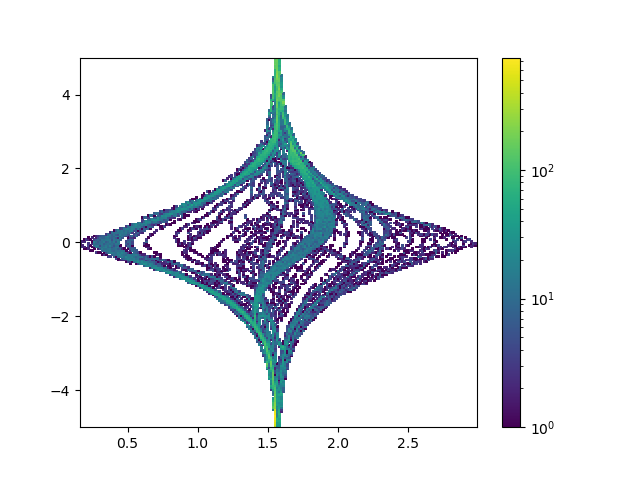
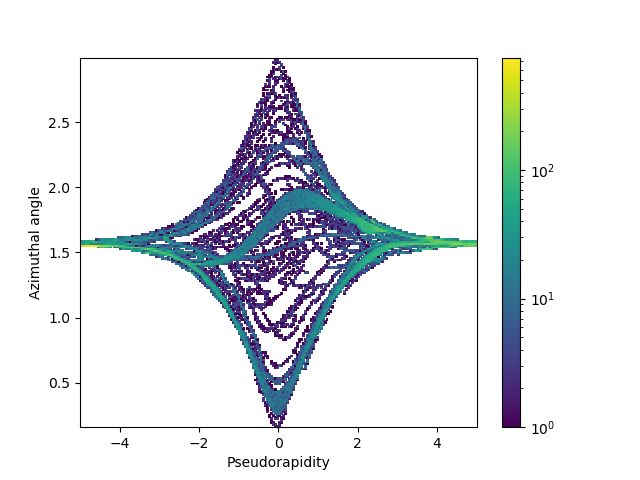
Added axis labels

diff --git a/Day_2/python/4vec.py b/Day_2/python/4vec.py
@@ -28,13 +28,12 @@ def main() -> None:
         fr = csv.reader(incsv, delimiter=",")
         for row in fr:
             vec4s.append(Vec4(row))
-    # collect the angles
-    etas = [i.eta for i in vec4s]
-    phis = [i.phi for i in vec4s]
-
-    # lognorm color scale makes the low count bins stand out
-    h = pyplot.hist2d(phis, etas, bins=200, norm=LogNorm())
+    # collect angles and plot histogram
+    # lognorm scale makes the low count bins stand out
+    h = pyplot.hist2d([i.eta for i in vec4s], [i.phi for i in vec4s], bins=200, norm=LogNorm())
     pyplot.colorbar(h[3])
+    pyplot.xlabel("Pseudorapidity")
+    pyplot.ylabel("Azimuthal angle")
     pyplot.savefig("../data/phi-v-eta-py.png")
 
 
